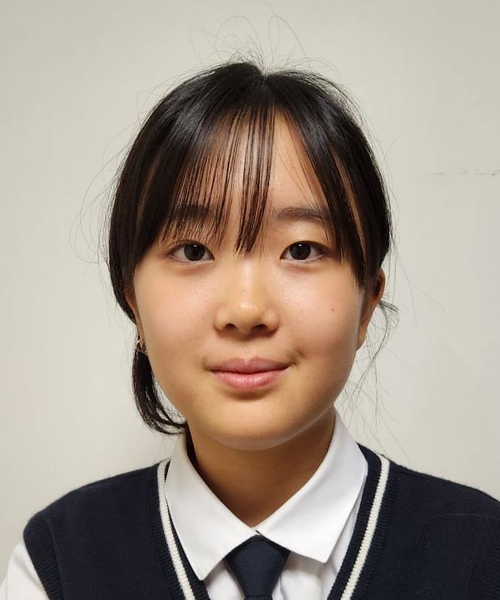
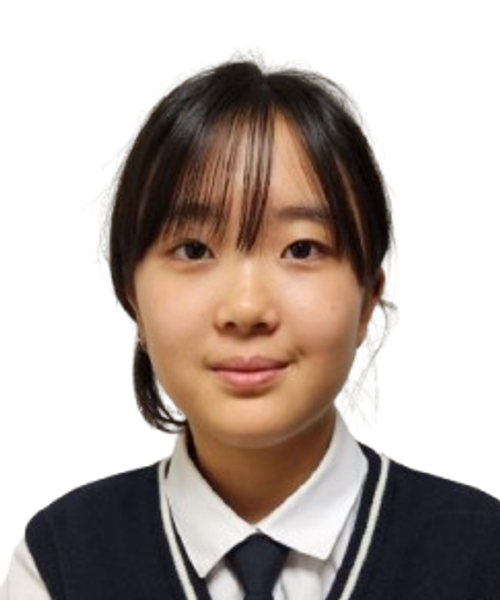
Use cutout photo for 동여음, show both race winners in ending, update credits

diff --git a/components/broadcast/scenes/title-scenes.tsx b/components/broadcast/scenes/title-scenes.tsx
@@ -30,27 +30,33 @@ export function OpeningScene({ config, results }: SceneProps) {
 }
 
 export function EndingScene({ config, results }: SceneProps) {
-  const winner = results.stats.leader
+  const winners = results.races.flatMap((race) =>
+    race.stats.leader ? [{ title: race.raceTitle || config.electionTitle, winner: race.stats.leader }] : [],
+  )
   return (
     <div className="absolute inset-0 flex items-center gap-24 px-32 pt-32">
-      <div className="flex flex-1 flex-col gap-12">
-        <h1 className="bc-rise text-[128px] font-black leading-[1.05] tracking-tight">
+      <div className="flex flex-1 flex-col gap-10">
+        <h1 className="bc-rise text-[112px] font-black leading-[1.05] tracking-tight">
           시청해 주셔서
           <br />
           감사합니다
         </h1>
-        {winner && (
-          <div className="bc-rise flex w-fit items-center gap-8 rounded-3xl border border-border p-5 pr-12" style={{ animationDelay: '0.3s' }}>
-            <CandidatePhoto candidate={winner} className="rounded-2xl" style={{ width: 150, height: 180 }} />
+        {winners.map(({ title, winner }, i) => (
+          <div
+            key={title}
+            className="bc-rise flex w-fit items-center gap-8 rounded-3xl border border-border bg-card p-5 pr-12"
+            style={{ animationDelay: `${0.3 + i * 0.15}s` }}
+          >
+            <CandidatePhoto candidate={winner} className="rounded-2xl" style={{ width: 125, height: 150 }} />
             <div className="flex flex-col gap-3">
-              <span className="text-2xl font-bold text-muted-foreground">{config.electionTitle} 당선인</span>
+              <span className="text-2xl font-bold text-muted-foreground">{title} 당선인</span>
               <span className="flex items-baseline gap-4 font-black leading-none">
-                <span className="text-4xl text-primary">기호 {winner.number}번</span>
-                <span className="text-7xl">{winner.name}</span>
+                <span className="text-4xl" style={{ color: winner.color }}>기호 {winner.number}번</span>
+                <span className="text-6xl">{winner.name}</span>
               </span>
             </div>
           </div>
-        )}
+        ))}
       </div>
 
       <div
@@ -76,7 +82,7 @@ export function EndingScene({ config, results }: SceneProps) {
               </div>
             )
           })}
-          <span className="pt-10 font-mono text-3xl font-bold tracking-[0.4em] text-primary">ELECTION NIGHT 2027</span>
+          <span className="pt-10 font-mono text-3xl font-bold tracking-[0.4em] text-primary">ELECTION 2027</span>
         </div>
       </div>
     </div>

diff --git a/lib/config.ts b/lib/config.ts
@@ -7,7 +7,7 @@ export const BROADCAST_CONFIG = {
   logoOnDark: '/images/school-logo-white.png',
   winnerLabel: '전교회장 당선',
   ticker: '',
-  credits: ['주최|학생회 선거관리위원회', '진행|방송부', '함께해 주신 모든 학생 여러분 감사합니다'],
+  credits: ['주최|학생회 선거관리위원회', '진행|방송부', '기획|박성환 · 고가빈'],
   sheetUrl: 'https://docs.google.com/spreadsheets/d/182bYfn4wg2QDdXQ5WU64LJXweCAfT-ZdDzbE58jIMlg/edit?usp=sharing',
   settingsSheet: '설정',
   pollSec: 5,
